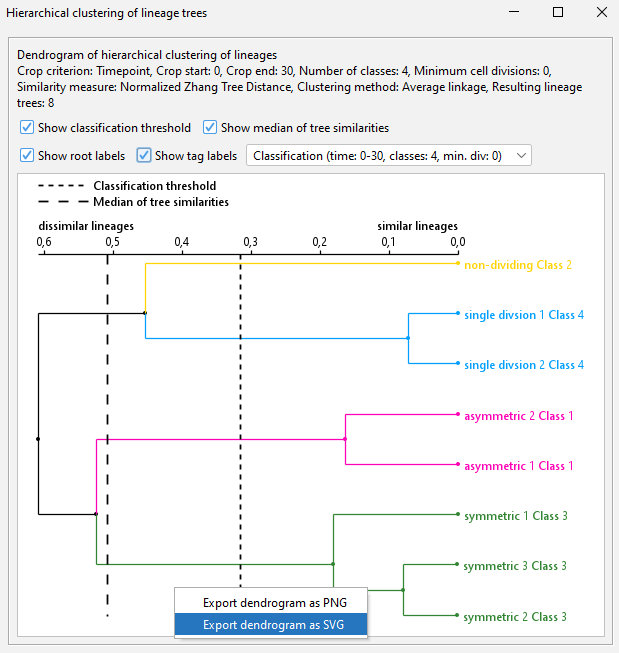
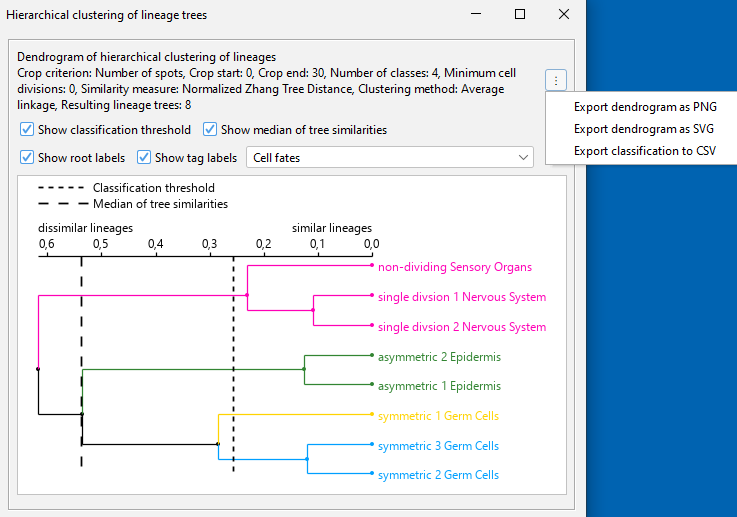
Update documentation of lineage classification
* Update image of the dialog
* Add image of similarity matrix
* Add image of CSV export
* Update image of dendrogram view
* Add big data viewer animation
* Include CSV export in readme.md
* Include averaging multiple embryos in the readme.md
* Include similarity matrix in the readme.md

diff --git a/doc/classification/readme.md b/doc/classification/readme.md
@@ -1,11 +1,15 @@
 ## Lineage Tree Classification
 
 * This command is capable of grouping similar lineage trees together.
+* It can be found in the menu under `Plugins > Classification of Lineage Trees`.
 * The linage classification operates on Mastodon's branch graph.
 * Lineage trees are considered similar, if they share a similar structure and thus represent a similar cell division
   pattern. The structure of a lineage tree is represented by the tree topology.
   This tree topology consists of the actual branching pattern and the cell lifetimes,
   i.e. the time points between two subsequent cell divisions.
+
+### Zhang Tree Edit Distance
+
 * The similarity of a pair of lineage trees is computed based on the Zhang edit distance for unordered
   trees ([Zhang, K. Algorithmica 15, 205–222, 1996](https://doi.org/10.1007/BF01975866)). This method captures the cost
   of the transformation of one tree into the other.
@@ -101,35 +105,44 @@ Tree2
 ```
 
 * Edit distance of 69, because:
-    * one node has a difference of 1
-    * two nodes have a difference of 24 each
-    * two extra nodes are added with a weight of 10 each
+  * one node has a difference of 1 (13-12)
+  * two nodes have a difference of 24 each (227-203 * 2)
+  * two extra nodes are added with a weight of 10 each (10 * 2)
     * ![zhang_example.gif](zhang_example.gif)
 
-* The similarity measure uses the attribute cell lifetime, which is computed as a difference of time points between to
-  subsequent divisions. There are multiple ways to compute the similarity measure between two lineage trees (cf. below).
-* The similarities are computed between all possible combinations of lineage trees leading to a two-dimensional
+### Workflow
+
+1. The similarity measure uses the attribute cell lifetime, which is computed as a difference of time points between two
+   subsequent divisions. There are multiple ways to compute the similarity between two lineage trees based on this
+   attribute:
+2. The sum of the edit distances as shown in the basic example above. Individual differences in the cell lifetimes may
+   be normalized by their sum (i.e. local normalization)
+3. The sum of the edit distances as shown in the basic example above normalized by the maximum possible edit distances
+   of the two trees (normalized zhang edit distance)
+4. The sum of the edit distances normalized by the number of the involved nodes (per branch zhang edit distance)
+5. The similarities are computed between all possible combinations of lineage trees leading to a two-dimensional
   similarity matrix. The values in this matrix are considered to reflect similarities of lineage trees. Low tree edit
   distances represent a high similarity between a discrete pair of lineage trees. This matrix is then used to perform
   an [Agglomerative Hierarchical Clustering](https://en.wikipedia.org/wiki/Hierarchical_clustering) into a specifiable
   number of classes.
-* For the clustering three
+6. For the clustering three
   different [linkage methods](https://en.wikipedia.org/wiki/Hierarchical_clustering#Cluster_Linkage) can be chosen.
 
 ### Parameters
 
 * Crop criterion:
+  * The criterion for cropping the lineage trees
   * Number of spots (default)
   * Time point
 * Crop start
-  * At which number of spots or time point the analysis should start
+  * At which number of spots / time point (depending on the chose crop criterion) the analysis should start
 * Crop end
-  * At which number of spots or time point the analysis should end
+  * At which number of spots / time point (depending on the chose crop criterion) the analysis should end
 * Number of classes
   * The number of classes the lineage trees should be grouped into
-  * Must not be greater than the number of lineage trees
+  * Must not be greater than the number of valid lineage trees
 * Minimum number of divisions
-  * The minimum number of divisions a lineage tree must have to be considered in the classification
+  * The minimum number of divisions a lineage tree should have so that it is included in the analysis
 * Similarity measures:
   1. (default) ![normalized_zhang_distance.gif](normalized_zhang_distance.gif)<sup>1,2</sup>
   2. ![per_branch_zhang_distance.gif](per_branch_zhang_distance.gif)<sup>1</sup>
@@ -141,9 +154,35 @@ Tree2
     1. Average (default)
     2. Single
     3. Complete
-* Feature:
-    * Branch duration (default and currently only selectable feature)
-* Show dendrogram of clustering
+* List of further projects
+  * If you have multiple similar projects, you can add them here to get an average classification taking all projects
+    into account.
+  * Mastodon projects can be added / removed using
+    * "Add files..."
+    * "Add folder content..."
+    * "Remove selected"
+    * "Clear list"
+    * Drag and drop of files and folders
+  * The name of the current open project is shown above the list. The current project is always included in the
+    classification. It cannot be added to the list.
+  * It is important that the names of the roots of lineages in all projects included in the classification are the same.
+    Otherwise, the classification will not work.
+  * The effect of adding further projects is that the similarity matrix is computed for each project separately and then
+    averaged, resulting in a more robust classification.
+* Add generated tags to further projects
+  * If checked, the tags generated by the classification are also added to the further projects.
+  * *Important note: this will write tags to these projects*. Consider making a backup of the further projects before
+    running the classification, if you choose this option.
+* Show dendrogram of hierarchical clustering of lineage trees
+  * If checked, the dendrogram is shown after the classification
+* Check validity of parameters
+  * Press this button to check, if with the current parameters a classification is possible
+  * If the parameters are invalid, a message will appear with the reason(s)
+  * Possible reasons for invalid parameters:
+    * The number of classes is greater than the number of valid lineage trees
+    * The crop start is greater than the crop end
+    * The crop end is greater than the maximum number of spots / time points
+    * Further projects that are included in the classification could not be found / opened
 
 ### Example
 
@@ -152,16 +191,24 @@ Tree2
     * The spatial positions of the spots are randomly generated.
     * When opening the dataset, you should confirm that you open the project with dummy
       images. ![Dummy images](dummy.png)
-* The track scheme of the demo data containing 8 lineage tree in total. You may see that the "symmetric", the "
-  asymmetric" and the "single division" trees look
-  similar to each other, but dissimilar to the other
+* The track scheme of the demo data contains 8 lineage tree in total. You may see that the "symmetric", the "asymmetric"
+  and the "single division" trees look similar to each other, but dissimilar to the remaining
   trees. ![Trackscheme](trackscheme.png)
-* The lineage classification dialog. ![Settings](settings.png)
+* The lineage classification dialog. Cf. section [parameters](#parameters) ![Settings](settings.png)
+* Not visible to the user, a similarity matrix is computed based on the chosen similarity measure. For the demo data,
+  the matrix looks like this. Highly similar trees have low distances in this matrix.
+  * ![Similarity matrix](similarity_matrix.png)
 * The resulting dendrogram.
-  * User can toggle on/off root labes, tags, classification threshold and median of the tree edit distances.
-  * Export options to SVG and PNG accessible via a context menu.
+  * User can toggle on/off root labels, tags, classification threshold and median of the tree edit distances.
+  * If the option `Show tag labels` is checked, the tag set shown in the dendrogram can be chosen.
+  * Export options for the dendrogram to SVG and PNG accessible via the context menu.
   * ![Dendrogram](dendrogram.png)
-* The resulting tag set used for coloring the track
+  * The resulting classification can be exported to a CSV file via the context menu. The exported file contains the root
+    names of the lineage trees, the tag set value, the assigned class and the similarity score. The similarity score
+    indicates how similar the lineage trees in this class are. The lower the score, the more similar the trees are.
+  * ![Export classification](csv.png)
+* The resulting tag set may be used for coloring the track
   scheme. ![Trackscheme with tags](trackscheme_with_tags.png)
-* The resulting tag set used for coloring the track scheme branch
+* The resulting tag set may be used for coloring the track scheme branch
   view. ![Trackscheme Branch View with tags](trackscheme_branch_with_tags.png)
+* The resulting tag set may be used for coloring the spots in the BigDataViewer. ![BigDataViewer](bdv.gif)
